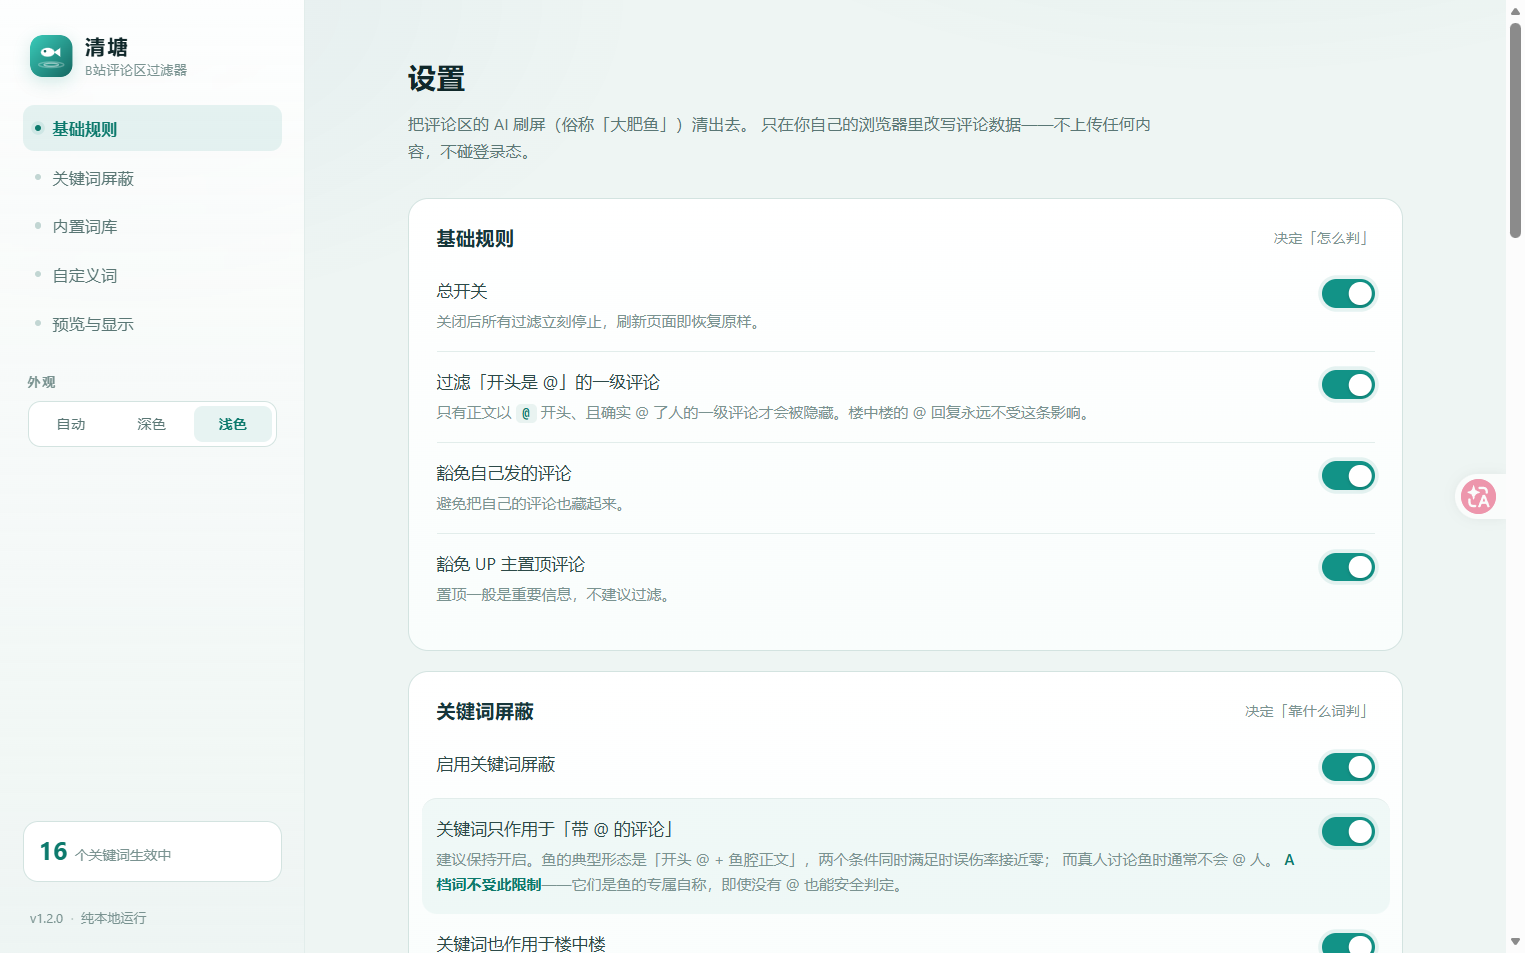
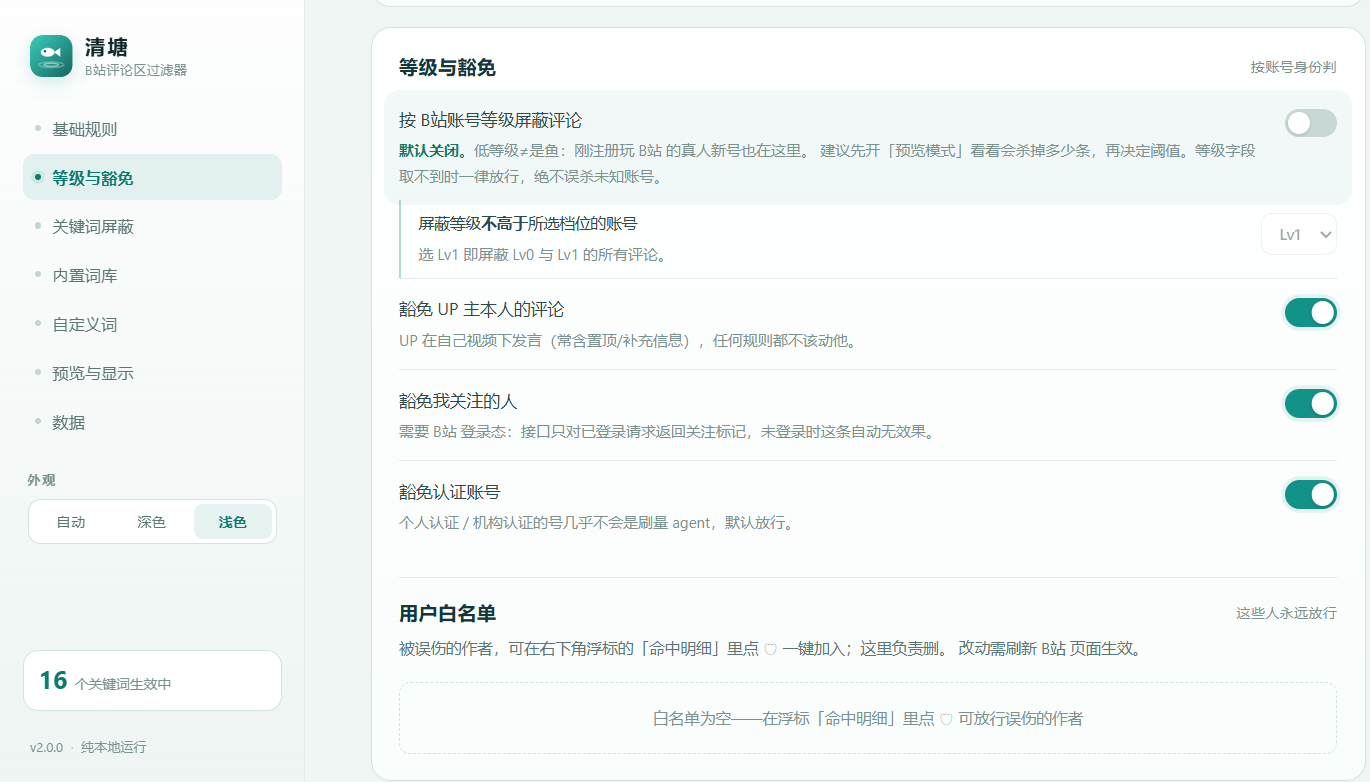
docs(screenshots): v2 界面实拍——等级与豁免分区、弹窗等级开关、命中明细面板
预览服实拍（深浅双态），新增 hits-panel-dark.png；
pill-demo 增加 ?pad= 截图位移参数（仅开发页）

diff --git a/preview/pill-demo.html b/preview/pill-demo.html
@@ -86,6 +86,15 @@
       var q = new URLSearchParams(location.search);
       var t = ['light', 'dark'].includes(q.get('theme')) ? q.get('theme') : 'dark';
       document.documentElement.setAttribute('data-theme', t);
+      // ?pad=N：把浮标/面板左移 N px。截图时避开浏览器右侧扩展悬浮物用，仅开发页存在
+      var pad = parseInt(q.get('pad') || '0', 10);
+      if (pad > 0) {
+        var st = document.createElement('style');
+        st.textContent =
+          '#__bcf-pill{right:' + (18 + pad) + 'px !important}' +
+          '#__bcf-panel{right:' + (18 + pad) + 'px !important}';
+        document.head.appendChild(st);
+      }
     })();
   </script>
 

diff --git a/README.md b/README.md
@@ -22,7 +22,7 @@
 
 > 如果图片显示不出来（部分网络环境会拦截 GitHub 图床 `camo.githubusercontent.com`），可以直接打开 [`docs/screenshots/`](docs/screenshots) 目录查看原图。
 
-设置页（深色）：
+设置页（深色 · 「等级与豁免」分区）：
 
 ![设置页 深色](docs/screenshots/options-dark.png)
 
@@ -36,6 +36,10 @@
   <img src="docs/screenshots/popup-dark.png" alt="弹窗 深色" width="300" />
   <img src="docs/screenshots/popup-light.png" alt="弹窗 浅色" width="300" />
 </p>
+
+命中明细面板（v2 · 点右下角浮标展开，🛡 一键白名单）：
+
+![命中明细面板](docs/screenshots/hits-panel-dark.png)
 
 ---
 
